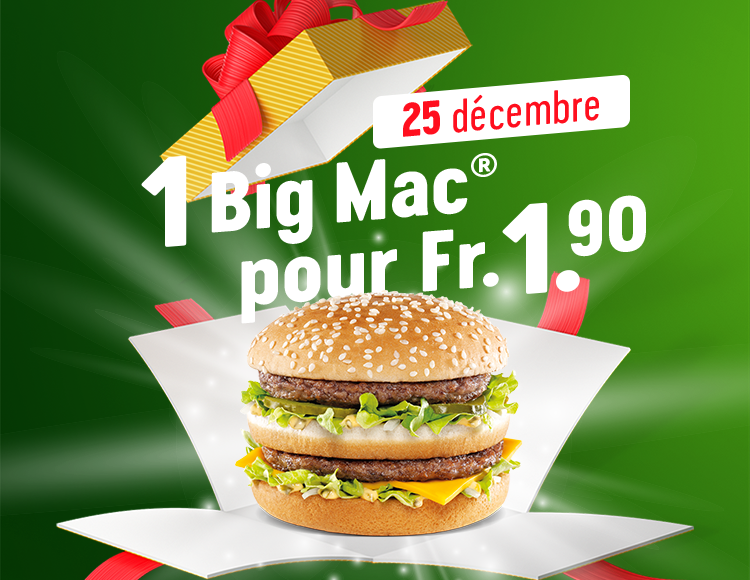
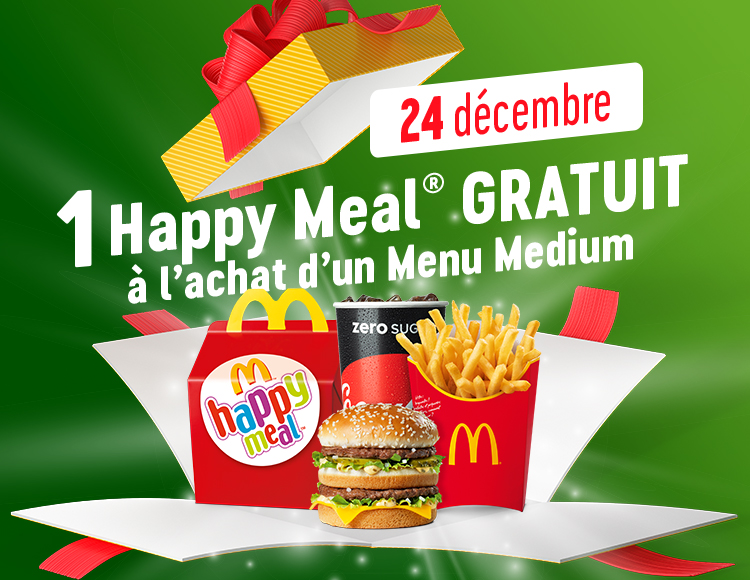
Guess what.. I added the 25th; Add boring text

diff --git a/get.py b/get.py
@@ -3,7 +3,9 @@ file = open("readme.md","w")
 file.write("# Mcdonald's Advent Calendar Spoiler\n")
 file.write("I don't know if these codes are already available.    \n")
 
-for x in range(1, 25):
+for x in range(1, 26):
 	file.write("## "+ str(x) + " December : \n") 
 	file.write('<img src="offers/'+str(x)+'.png" height="250">   ')
 	file.write('<img src="barcodes/'+str(x)+'.svg" height="200">\n')
+
+file.write("### Oh and don't kill me if you work at Mcdonald's")

diff --git a/readme.md b/readme.md
@@ -48,3 +48,6 @@ I don't know if these codes are already available.
 <img src="offers/23.png" height="250">   <img src="barcodes/23.svg" height="200">
 ## 24 December : 
 <img src="offers/24.png" height="250">   <img src="barcodes/24.svg" height="200">
+## 25 December : 
+<img src="offers/25.png" height="250">   <img src="barcodes/25.svg" height="200">
+### Oh and don't kill me if you work at Mcdonald's
